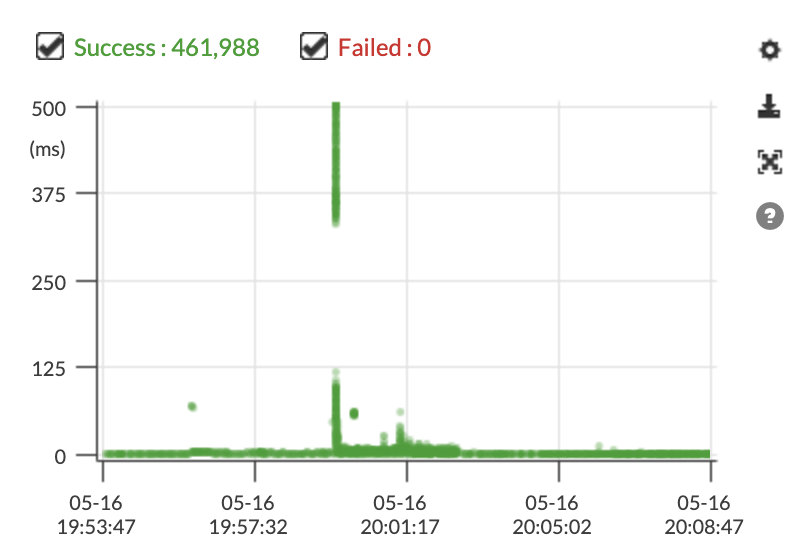
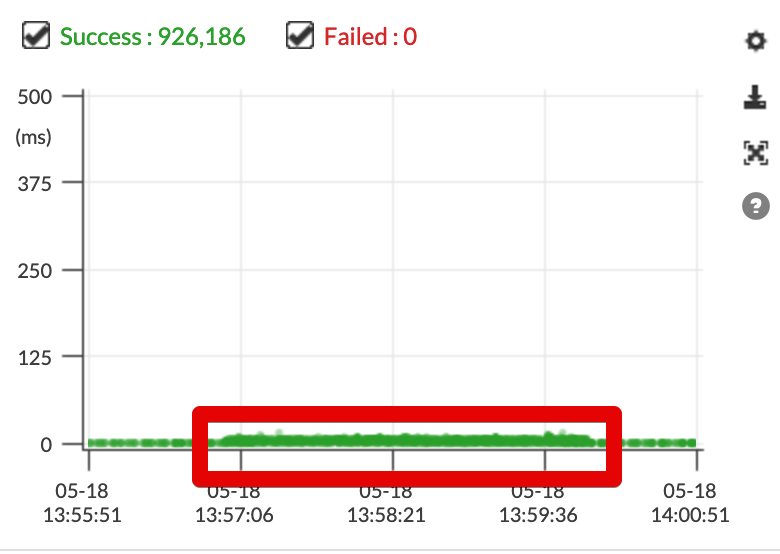
connection pool 작성중

diff --git a/posts/lettuce-than-jedis/README.md b/posts/lettuce-than-jedis/README.md
@@ -179,13 +179,22 @@ dependencies {
 
 ### 1-1. Not Connection Pool
 
+먼저 Connection Pool 설정 없이 테스트해보겠습니다.
 
 > 참고로 모든 테스트는 [JVM의 Warm up Time](https://dzone.com/articles/why-many-java-performance-test)을 고려하여 2번이상 테스트하였습니다.
 
 
+VUser 740명으로 시도합니다.
+
+* agent는 5대
+* 각 agent 별 148명을 지정했습니다.
+* 부하 테스트 시간은 3분
+
 Agent
 
 ![jedis-agent1](./images/jedis-agent1.png)
+
+핀포인트 결과는 평균 **125ms**가 나왔습니다.
 
 ![jedis-pinpoint](./images/jedis-pinpoint.png)
 
@@ -194,14 +203,54 @@ Agent
 ![jedis-result-740](./images/jedis-result-740.png)
 
 
-> 제가 포인트 시스템에 Redis를 적용하던 시점에는 Jedis가 더이상 업데이트되지 않고 있었습니다.  
+> 제가 사내 시스템에 Redis를 적용하던 시점에는 Jedis가 더이상 업데이트되지 않고 있었습니다.  
 2016년 9월이후로 더이상 릴리즈 되지 않다가, 2018년 11월부터 다시 릴리즈가 되고 있습니다.  
 혹시나 jedis를 사용하실 분들은 [릴리즈 노트](https://github.com/xetorthio/jedis/releases)를 참고해보세요.
 
 ### 1-2. Use Connection Pool
 
+Connection Pool을 사용하지 않으니 
+
+* TPS가 생각보다 낮게 나왔습니다.
+* Redis Connection과 EC2 서버의 CPU가 여유로웠습니다.
+
+```java
+    @Bean
+    public RedisConnectionFactory redisConnectionFactory() {
+        RedisStandaloneConfiguration config = new RedisStandaloneConfiguration(redisProperties.getHost(), redisProperties.getPort());
+        JedisConnectionFactory jedisConnectionFactory = new JedisConnectionFactory(config);
+        jedisConnectionFactory.setPoolConfig(jedisPoolConfig());
+        return jedisConnectionFactory;
+    }
+
+    private JedisPoolConfig jedisPoolConfig() {
+        final JedisPoolConfig poolConfig = new JedisPoolConfig();
+        poolConfig.setMaxTotal(128);
+        poolConfig.setMaxIdle(128);
+        poolConfig.setMinIdle(36);
+        poolConfig.setTestOnBorrow(true);
+        poolConfig.setTestOnReturn(true);
+        poolConfig.setTestWhileIdle(true);
+        poolConfig.setMinEvictableIdleTimeMillis(Duration.ofSeconds(60).toMillis());
+        poolConfig.setTimeBetweenEvictionRunsMillis(Duration.ofSeconds(30).toMillis());
+        poolConfig.setNumTestsPerEvictionRun(3);
+        poolConfig.setBlockWhenExhausted(true);
+        return poolConfig;
+    }
+```
+
+* Jedis는 최대 Pool Size를 초과해서 Connection을 맺을 수 있다.
+* Jedis의 경우 TP
+
+문제는 **이보다 더 높은 TPS를 맞추려면 Redis의 CPU가 90%를 넘을수도** 있습니다.  
+  
+이건 충분히 문제가 되겠죠?  
+  
+Jedis를 **꼭** 써야한다면 성능 테스트를 통해 **적절한 Pool Size**를 찾아보셔야만 합니다.
 
 ## 2. Lettuce
+
+다음으로 Lettuce로 설정을 변경후 테스트해보겠습니다.
 
 Lettuce
 
@@ -242,6 +291,29 @@ dependencies {
     testImplementation 'org.springframework.boot:spring-boot-starter-test'
 }
 ```
+
+자 이렇게 설정후 테스트를 해보면!
+
+TPS는 무려 **10만**을 처리합니다.
+
+![lettuce-result-740](./images/lettuce-result-740.png)
+
+실제로 워낙 빠르게 처리하다보니 **대량의 요청을 해야하는 agent CPU가 70%까지** 올라갔습니다
+
+![lettuce-agent1](./images/lettuce-agent1.png)
+
+Connection은 **6-7**개를 유지합니다.
+
+![lettuce-connection](./images/lettuce-connection.png)
+
+
+CPU는 **7**%밖에 되지 않습니다.
+
+![lettuce-cpu](./images/lettuce-cpu.png)
+
+
+
+
 
 Jedis는 애플리케이션이 Jedis여러 스레드 에서 단일 인스턴스 를 공유하려고 할 때 스레드로부터 안전하지 않은 직선적 인 Redis 클라이언트입니다. 
 멀티 쓰레드 환경에서 Jedis를 사용하는 접근법은 Connection Pool을 사용하는 것입니다.
